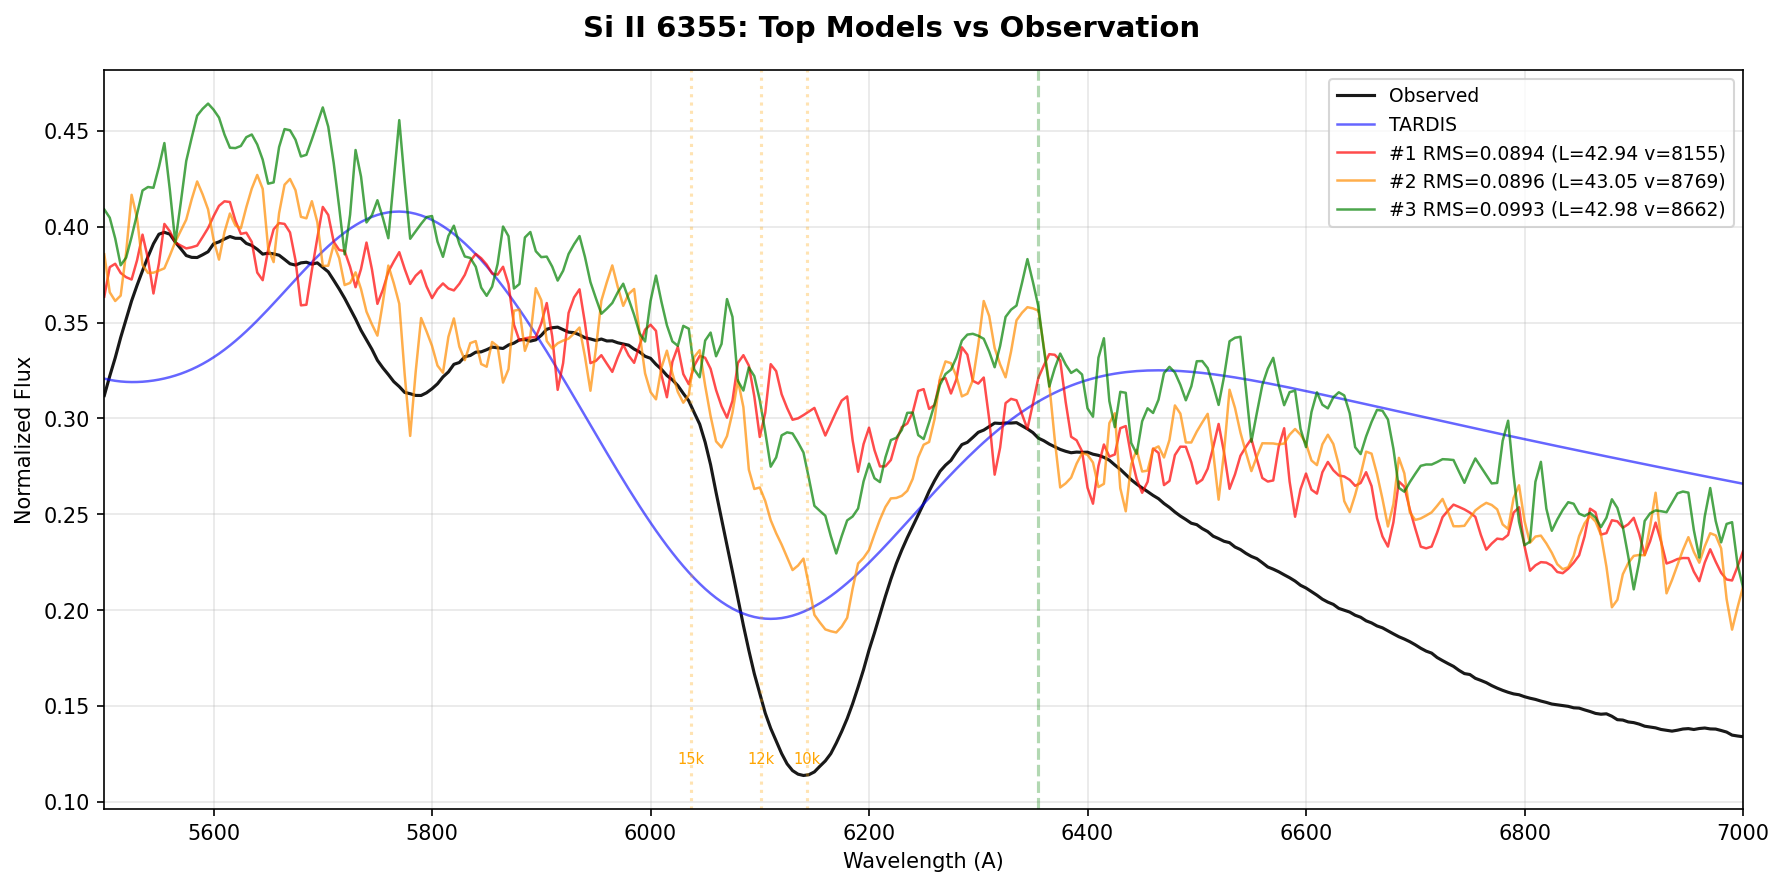
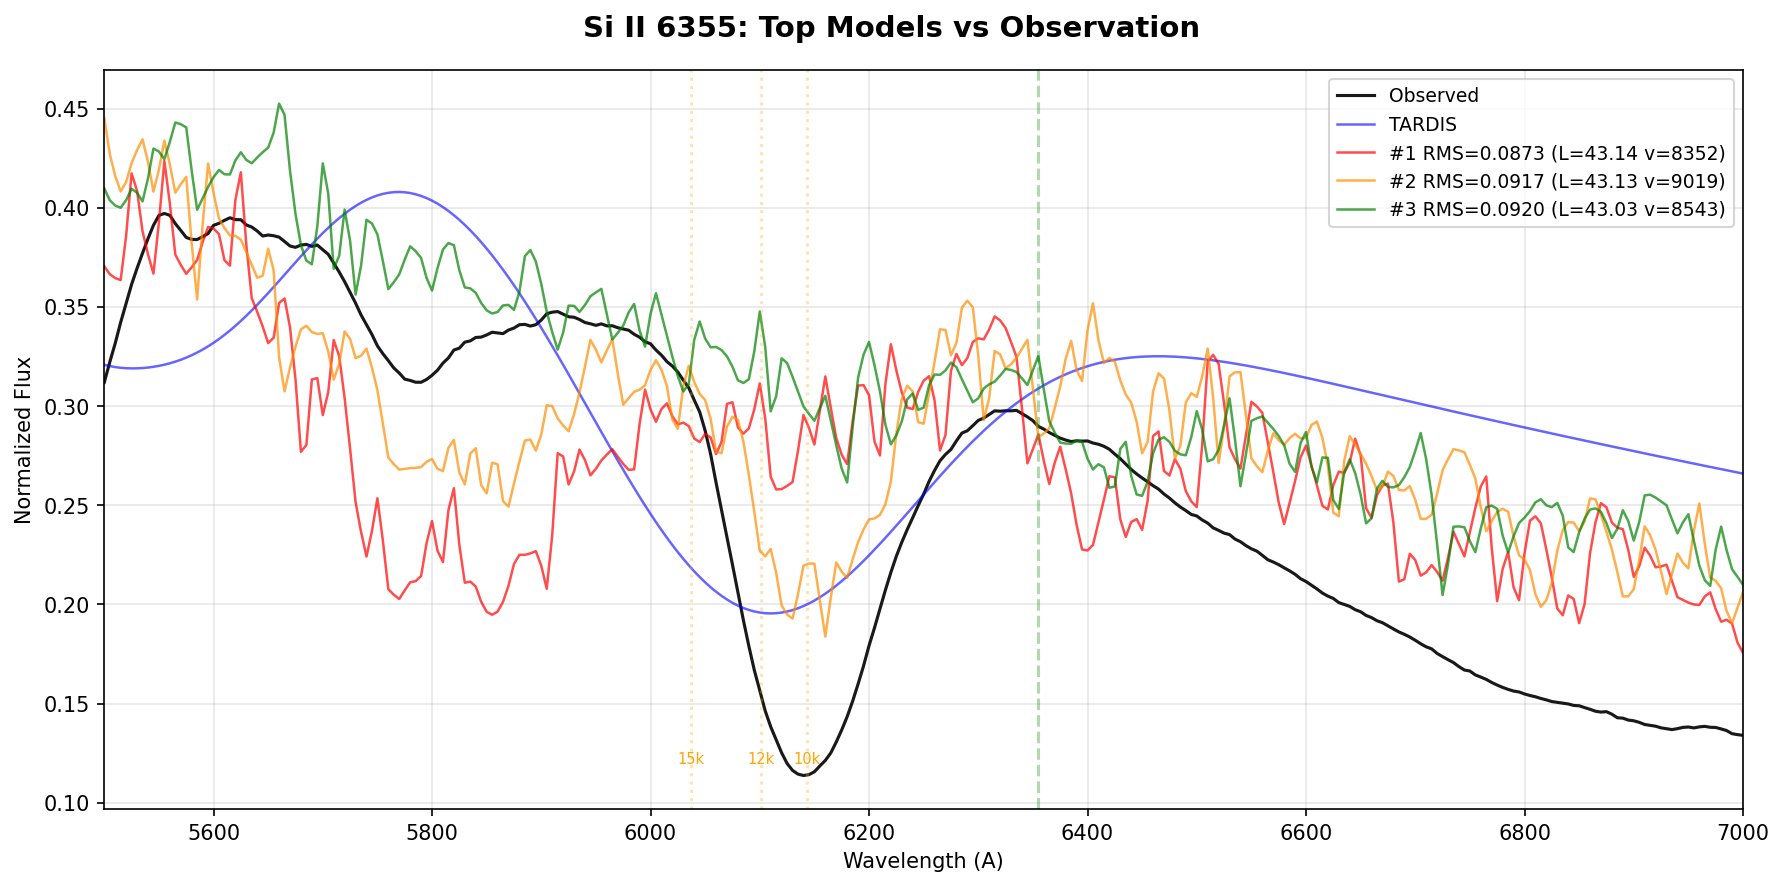
Expand parameter fitting from 5D to 7D with density exponent and T_e/T_rad ratio
Add two new fitting parameters (density_exp, T_e_ratio) that control Si II
trough depth via opacity distribution and ionization balance. T_e/T_rad ratio
is now configurable in the C plasma solver (PlasmaState struct) instead of
hardcoded 0.9. Best-fit RMS improved from 0.089 to 0.087 with 150 LHS samples.

diff --git a/scripts/fit_parameter_search.py b/scripts/fit_parameter_search.py
@@ -2,12 +2,13 @@
 """
 Multi-dimensional parameter fitting for SN 2011fe using LUMINA-SN.
 
-Searches a 5D physical parameter space (log_L, v_inner, log_rho_0, X_Si, X_Fe)
+Searches a 7D physical parameter space:
+  (log_L, v_inner, log_rho_0, X_Si, X_Fe, density_exp, T_e_ratio)
 to find the best-fit model for the observed SN 2011fe spectrum (Pereira+2013,
 phase -0.3d from B-max).
 
 Uses coarse-to-fine strategy:
-  Phase 1: 100 Latin Hypercube samples, 20K packets x 5 iters  (~25 min)
+  Phase 1: 150 Latin Hypercube samples, 20K packets x 5 iters  (~35 min)
   Phase 2: Top-20 refinement, 100K packets x 10 iters          (~30 min)
   Phase 3: Top-3 production, 500K packets x 20 iters            (~24 min)
 
@@ -75,6 +76,8 @@ class ModelParams:
     log_rho_0: float   # log10(rho_0 in g/cm^3), range [-13.5, -12.7]
     X_Si: float        # Si mass fraction, range [0.03, 0.25]
     X_Fe: float        # Fe mass fraction, range [0.15, 0.75]
+    density_exp: float = -7.0   # density power-law exponent, range [-10, -4]
+    T_e_ratio: float = 0.9     # T_e/T_rad ratio, range [0.7, 1.0]
 
     @property
     def L_erg_s(self):
@@ -121,6 +124,8 @@ class FitResult:
             'log_rho_0': self.params.log_rho_0,
             'X_Si': self.params.X_Si,
             'X_Fe': self.params.X_Fe,
+            'density_exp': self.params.density_exp,
+            'T_e_ratio': self.params.T_e_ratio,
             'X_O': self.params.X_O,
             'rms': self.rms,
             'si_depth': self.si_depth,
@@ -133,7 +138,7 @@ class FitResult:
 
 # ===== Latin Hypercube Sampling =====
 def latin_hypercube(n_samples, param_ranges, rng=None):
-    """Generate Latin Hypercube samples in 5D parameter space.
+    """Generate Latin Hypercube samples in 7D parameter space.
 
     Args:
         n_samples: Number of samples
@@ -173,6 +178,8 @@ def latin_hypercube(n_samples, param_ranges, rng=None):
             log_rho_0=result[i, 2],
             X_Si=result[i, 3],
             X_Fe=result[i, 4],
+            density_exp=result[i, 5],
+            T_e_ratio=result[i, 6],
         )
         if p.is_valid():
             valid.append(p)
@@ -181,7 +188,10 @@ def latin_hypercube(n_samples, param_ranges, rng=None):
     attempts = 0
     while len(valid) < n_samples and attempts < max_attempts:
         vals = [rng.uniform(lo, hi) for lo, hi in param_ranges]
-        p = ModelParams(*vals)
+        p = ModelParams(
+            log_L=vals[0], v_inner=vals[1], log_rho_0=vals[2],
+            X_Si=vals[3], X_Fe=vals[4], density_exp=vals[5], T_e_ratio=vals[6],
+        )
         if p.is_valid():
             valid.append(p)
         attempts += 1
@@ -270,6 +280,7 @@ class LuminaFitter:
             "seed": 23111963,
             "v_inner_min_cm_s": params.v_inner_cm_s,
             "v_outer_max_cm_s": V_OUTER * 1e5,
+            "T_e_T_rad_ratio": params.T_e_ratio,
         }
         with open(dirpath / "config.json", 'w') as f:
             json.dump(cfg, f, indent=2)
@@ -296,7 +307,7 @@ class LuminaFitter:
                 vi = v_min + i * dv
                 vo = v_min + (i + 1) * dv
                 v_mid = (vi + vo) / 2.0
-                rho = rho_0 * (v_mid / v_min) ** DENSITY_EXPONENT
+                rho = rho_0 * (v_mid / v_min) ** params.density_exp
                 f.write(f"{i},{rho}\n")
 
     def _write_abundances_csv(self, dirpath, params):
@@ -341,7 +352,7 @@ class LuminaFitter:
                 vi = v_min_new + i * dv_new
                 vo = v_min_new + (i + 1) * dv_new
                 v_mid = (vi + vo) / 2.0
-                rho_new = rho_0_new * (v_mid / v_min_new) ** DENSITY_EXPONENT
+                rho_new = rho_0_new * (v_mid / v_min_new) ** params.density_exp
                 # Scale from innermost reference shell
                 rho_ref_0 = float(ref_density['rho'][0])
                 ne_ref_0 = float(ref_ne['n_e'][0])
@@ -516,8 +527,10 @@ PARAM_RANGES = [
     (-13.5, -12.7),    # log_rho_0
     (0.03, 0.25),      # X_Si
     (0.15, 0.75),      # X_Fe
+    (-10, -4),         # density_exp
+    (0.7, 1.0),        # T_e_ratio
 ]
-PARAM_NAMES = ['log_L', 'v_inner', 'log_rho_0', 'X_Si', 'X_Fe']
+PARAM_NAMES = ['log_L', 'v_inner', 'log_rho_0', 'X_Si', 'X_Fe', 'density_exp', 'T_e_ratio']
 
 
 def phase1_coarse(fitter, n=100):
@@ -532,7 +545,8 @@ def phase1_coarse(fitter, n=100):
     results = []
     for i, params in enumerate(samples):
         print(f"\n  [{i+1:3d}/{n}] log_L={params.log_L:.3f} v={params.v_inner:.0f} "
-              f"log_rho={params.log_rho_0:.3f} Si={params.X_Si:.3f} Fe={params.X_Fe:.3f}",
+              f"log_rho={params.log_rho_0:.3f} Si={params.X_Si:.3f} Fe={params.X_Fe:.3f} "
+              f"exp={params.density_exp:.1f} Te={params.T_e_ratio:.2f}",
               end="", flush=True)
 
         result = fitter.run_model(params, n_packets=20000, n_iters=5, tag=f"p1_{i}")
@@ -558,6 +572,7 @@ def phase2_refine(fitter, phase1_results, n_top=20):
         params = prev.params
         print(f"\n  [{i+1:3d}/{n_top}] log_L={params.log_L:.3f} v={params.v_inner:.0f} "
               f"log_rho={params.log_rho_0:.3f} Si={params.X_Si:.3f} Fe={params.X_Fe:.3f} "
+              f"exp={params.density_exp:.1f} Te={params.T_e_ratio:.2f} "
               f"(P1 RMS={prev.rms:.4f})", end="", flush=True)
 
         result = fitter.run_model(params, n_packets=100000, n_iters=10, tag=f"p2_{i}")
@@ -582,6 +597,7 @@ def phase3_production(fitter, phase2_results, n_top=3):
         params = prev.params
         print(f"\n  [{i+1}/{n_top}] log_L={params.log_L:.3f} v={params.v_inner:.0f} "
               f"log_rho={params.log_rho_0:.3f} Si={params.X_Si:.3f} Fe={params.X_Fe:.3f} "
+              f"exp={params.density_exp:.1f} Te={params.T_e_ratio:.2f} "
               f"(P2 RMS={prev.rms:.4f})", end="", flush=True)
 
         result = fitter.run_model(params, n_packets=500000, n_iters=20, tag=f"p3_{i}")
@@ -610,9 +626,9 @@ def save_results_csv(results, filename):
 
 
 def plot_sensitivity(results, output="fit_sensitivity.png"):
-    """5-panel scatter: RMS vs each parameter."""
+    """7-panel scatter: RMS vs each parameter."""
     filepath = PROJECT_ROOT / output
-    fig, axes = plt.subplots(1, 5, figsize=(20, 4))
+    fig, axes = plt.subplots(1, 7, figsize=(28, 4))
     fig.suptitle('Parameter Sensitivity (RMS vs. each parameter)', fontsize=14, fontweight='bold')
 
     for ax, pname in zip(axes, PARAM_NAMES):
@@ -691,6 +707,8 @@ def plot_best_fit(best_result, fitter, output="fit_best_spectrum.png"):
              f"log rho_0 = {p.log_rho_0:.3f}\n"
              f"X_Si = {p.X_Si:.3f}, X_Fe = {p.X_Fe:.3f}\n"
              f"X_O = {p.X_O:.3f}\n"
+             f"density_exp = {p.density_exp:.1f}\n"
+             f"T_e/T_rad = {p.T_e_ratio:.2f}\n"
              f"RMS = {best_result.rms:.4f}\n"
              f"Si II depth = {best_result.si_depth:.1%}")
     ax.text(0.02, 0.97, stats, transform=ax.transAxes, fontsize=8,
@@ -802,8 +820,8 @@ def main():
                         help='Single validation run with default params (10K pkts)')
     parser.add_argument('--phase1', action='store_true',
                         help='Run Phase 1 only')
-    parser.add_argument('--n-samples', type=int, default=100,
-                        help='Number of LHS samples for Phase 1 (default: 100)')
+    parser.add_argument('--n-samples', type=int, default=150,
+                        help='Number of LHS samples for Phase 1 (default: 150)')
     args = parser.parse_args()
 
     # Check binary
@@ -831,12 +849,16 @@ def main():
             log_rho_0=-13.097,
             X_Si=0.10,
             X_Fe=0.60,
+            density_exp=-7.0,
+            T_e_ratio=0.9,
         )
         print(f"\nParameters:")
         print(f"  log_L = {params.log_L} -> L = {params.L_erg_s:.4e} erg/s")
         print(f"  v_inner = {params.v_inner} km/s")
         print(f"  log_rho_0 = {params.log_rho_0} -> rho_0 = {params.rho_0:.4e} g/cm^3")
         print(f"  X_Si = {params.X_Si}, X_Fe = {params.X_Fe}, X_O = {params.X_O}")
+        print(f"  density_exp = {params.density_exp}")
+        print(f"  T_e/T_rad ratio = {params.T_e_ratio}")
         print(f"  T_inner (S-B estimate) = {params.T_inner_estimate:.1f} K")
 
         result = fitter.run_model(params, n_packets=10000, n_iters=5, tag="test")
@@ -868,7 +890,8 @@ def main():
     for i, r in enumerate(p1_results[:5]):
         p = r.params
         print(f"  #{i+1}: RMS={r.rms:.4f} log_L={p.log_L:.3f} v={p.v_inner:.0f} "
-              f"log_rho={p.log_rho_0:.3f} Si={p.X_Si:.3f} Fe={p.X_Fe:.3f}")
+              f"log_rho={p.log_rho_0:.3f} Si={p.X_Si:.3f} Fe={p.X_Fe:.3f} "
+              f"exp={p.density_exp:.1f} Te={p.T_e_ratio:.2f}")
 
     if args.phase1:
         print(f"\nPhase 1 only. Total time: {time.time()-total_t0:.0f}s")
@@ -882,7 +905,8 @@ def main():
     for i, r in enumerate(p2_results[:5]):
         p = r.params
         print(f"  #{i+1}: RMS={r.rms:.4f} log_L={p.log_L:.3f} v={p.v_inner:.0f} "
-              f"log_rho={p.log_rho_0:.3f} Si={p.X_Si:.3f} Fe={p.X_Fe:.3f}")
+              f"log_rho={p.log_rho_0:.3f} Si={p.X_Si:.3f} Fe={p.X_Fe:.3f} "
+              f"exp={p.density_exp:.1f} Te={p.T_e_ratio:.2f}")
 
     # Phase 3
     p3_results = phase3_production(fitter, p2_results, n_top=3)
@@ -899,12 +923,14 @@ def main():
     print(f"Total time: {time.time()-total_t0:.0f}s ({(time.time()-total_t0)/60:.1f} min)")
     print(f"\nBest-fit parameters:")
     p = best.params
-    print(f"  log_L     = {p.log_L:.4f}  (L = {p.L_erg_s:.4e} erg/s)")
-    print(f"  v_inner   = {p.v_inner:.0f} km/s")
-    print(f"  log_rho_0 = {p.log_rho_0:.4f}  (rho_0 = {p.rho_0:.4e} g/cm^3)")
-    print(f"  X_Si      = {p.X_Si:.4f}")
-    print(f"  X_Fe      = {p.X_Fe:.4f}")
-    print(f"  X_O       = {p.X_O:.4f}")
+    print(f"  log_L       = {p.log_L:.4f}  (L = {p.L_erg_s:.4e} erg/s)")
+    print(f"  v_inner     = {p.v_inner:.0f} km/s")
+    print(f"  log_rho_0   = {p.log_rho_0:.4f}  (rho_0 = {p.rho_0:.4e} g/cm^3)")
+    print(f"  X_Si        = {p.X_Si:.4f}")
+    print(f"  X_Fe        = {p.X_Fe:.4f}")
+    print(f"  X_O         = {p.X_O:.4f}")
+    print(f"  density_exp = {p.density_exp:.2f}")
+    print(f"  T_e/T_rad   = {p.T_e_ratio:.3f}")
     print(f"\nMetrics:")
     print(f"  RMS vs observed: {best.rms:.4f}")
     print(f"  Si II depth: {best.si_depth:.1%}")

diff --git a/src/lumina_atomic.c b/src/lumina_atomic.c
@@ -283,10 +283,16 @@ int load_tardis_reference_data(const char *ref_dir, Geometry *geo,
         p = strstr(buf, "\"seed\""); /* Phase 2 - Step 10b */
         if (p) { p = strchr(p, ':'); config->seed = (uint64_t)atol(p + 1); } /* Phase 2 - Step 10b */
 
+        /* Parse T_e/T_rad ratio (default 0.9 if absent) */
+        plasma->T_e_T_rad_ratio = 0.9;
+        p = strstr(buf, "\"T_e_T_rad_ratio\"");
+        if (p) { p = strchr(p, ':'); plasma->T_e_T_rad_ratio = atof(p + 1); }
+
         printf("  Config: t_exp=%.6e s, T_inner=%.2f K, L=%.3e erg/s\n", /* Phase 2 - Step 10b */
                geo->time_explosion, config->T_inner, config->luminosity_requested); /* Phase 2 - Step 10b */
-        printf("    n_packets=%d, n_iter=%d, seed=%lu\n", /* Phase 2 - Step 10b */
-               config->n_packets, config->n_iterations, config->seed); /* Phase 2 - Step 10b */
+        printf("    n_packets=%d, n_iter=%d, seed=%lu, T_e/T_rad=%.3f\n",
+               config->n_packets, config->n_iterations, config->seed,
+               plasma->T_e_T_rad_ratio);
     }
 
     /* Phase 2 - Step 10c: Load electron densities */

diff --git a/src/lumina_plasma.c b/src/lumina_plasma.c
@@ -195,7 +195,7 @@ static void compute_ion_populations(AtomicData *atom, PlasmaState *plasma,
 
         for (int s = 0; s < n_shells; s++) {
             double T_rad = plasma->T_rad[s];
-            double T_e   = 0.9 * T_rad;
+            double T_e   = plasma->T_e_T_rad_ratio * T_rad;
             double W     = plasma->W[s];
             double n_e   = plasma->n_electron[s];
             double rho   = plasma->rho[s];
@@ -287,7 +287,7 @@ static void compute_electron_density(AtomicData *atom, PlasmaState *plasma,
         if (n_e <= 0.0) n_e = 1e6;
 
         double T_rad = plasma->T_rad[s];
-        double T_e   = 0.9 * T_rad;
+        double T_e   = plasma->T_e_T_rad_ratio * T_rad;
         double W     = plasma->W[s];
         double rho   = plasma->rho[s];
 

diff --git a/src/lumina_main.c b/src/lumina_main.c
@@ -84,6 +84,9 @@ int main(int argc, char *argv[]) {
     AtomicData atom_data; /* Task #072 */
     memset(&config, 0, sizeof(config)); /* Phase 5 - Step 3 */
 
+    /* Default T_e/T_rad ratio (will be overridden by config.json if present) */
+    plasma.T_e_T_rad_ratio = 0.9;
+
     /* Phase 5 - Step 3: Set defaults matching TARDIS sn2011fe.yml */
     config.enable_full_relativity = false; /* Phase 5 - Step 3 */
     config.disable_line_scattering = false; /* Phase 5 - Step 3 */

diff --git a/src/lumina.h b/src/lumina.h
@@ -153,6 +153,7 @@ typedef struct {
     double *T_rad;            /* Phase 2 - Step 4: [n_shells] radiation temp [K] */
     double *rho;              /* Phase 2 - Step 4: [n_shells] density [g/cm^3] */
     double *n_electron;       /* Task #072: [n_shells] self-consistent n_e */
+    double  T_e_T_rad_ratio;  /* T_e/T_rad ratio for Saha equation (default 0.9) */
 } PlasmaState;                /* Phase 2 - Step 4 */
 
 /* Task #072: Atomic data for plasma solver */
